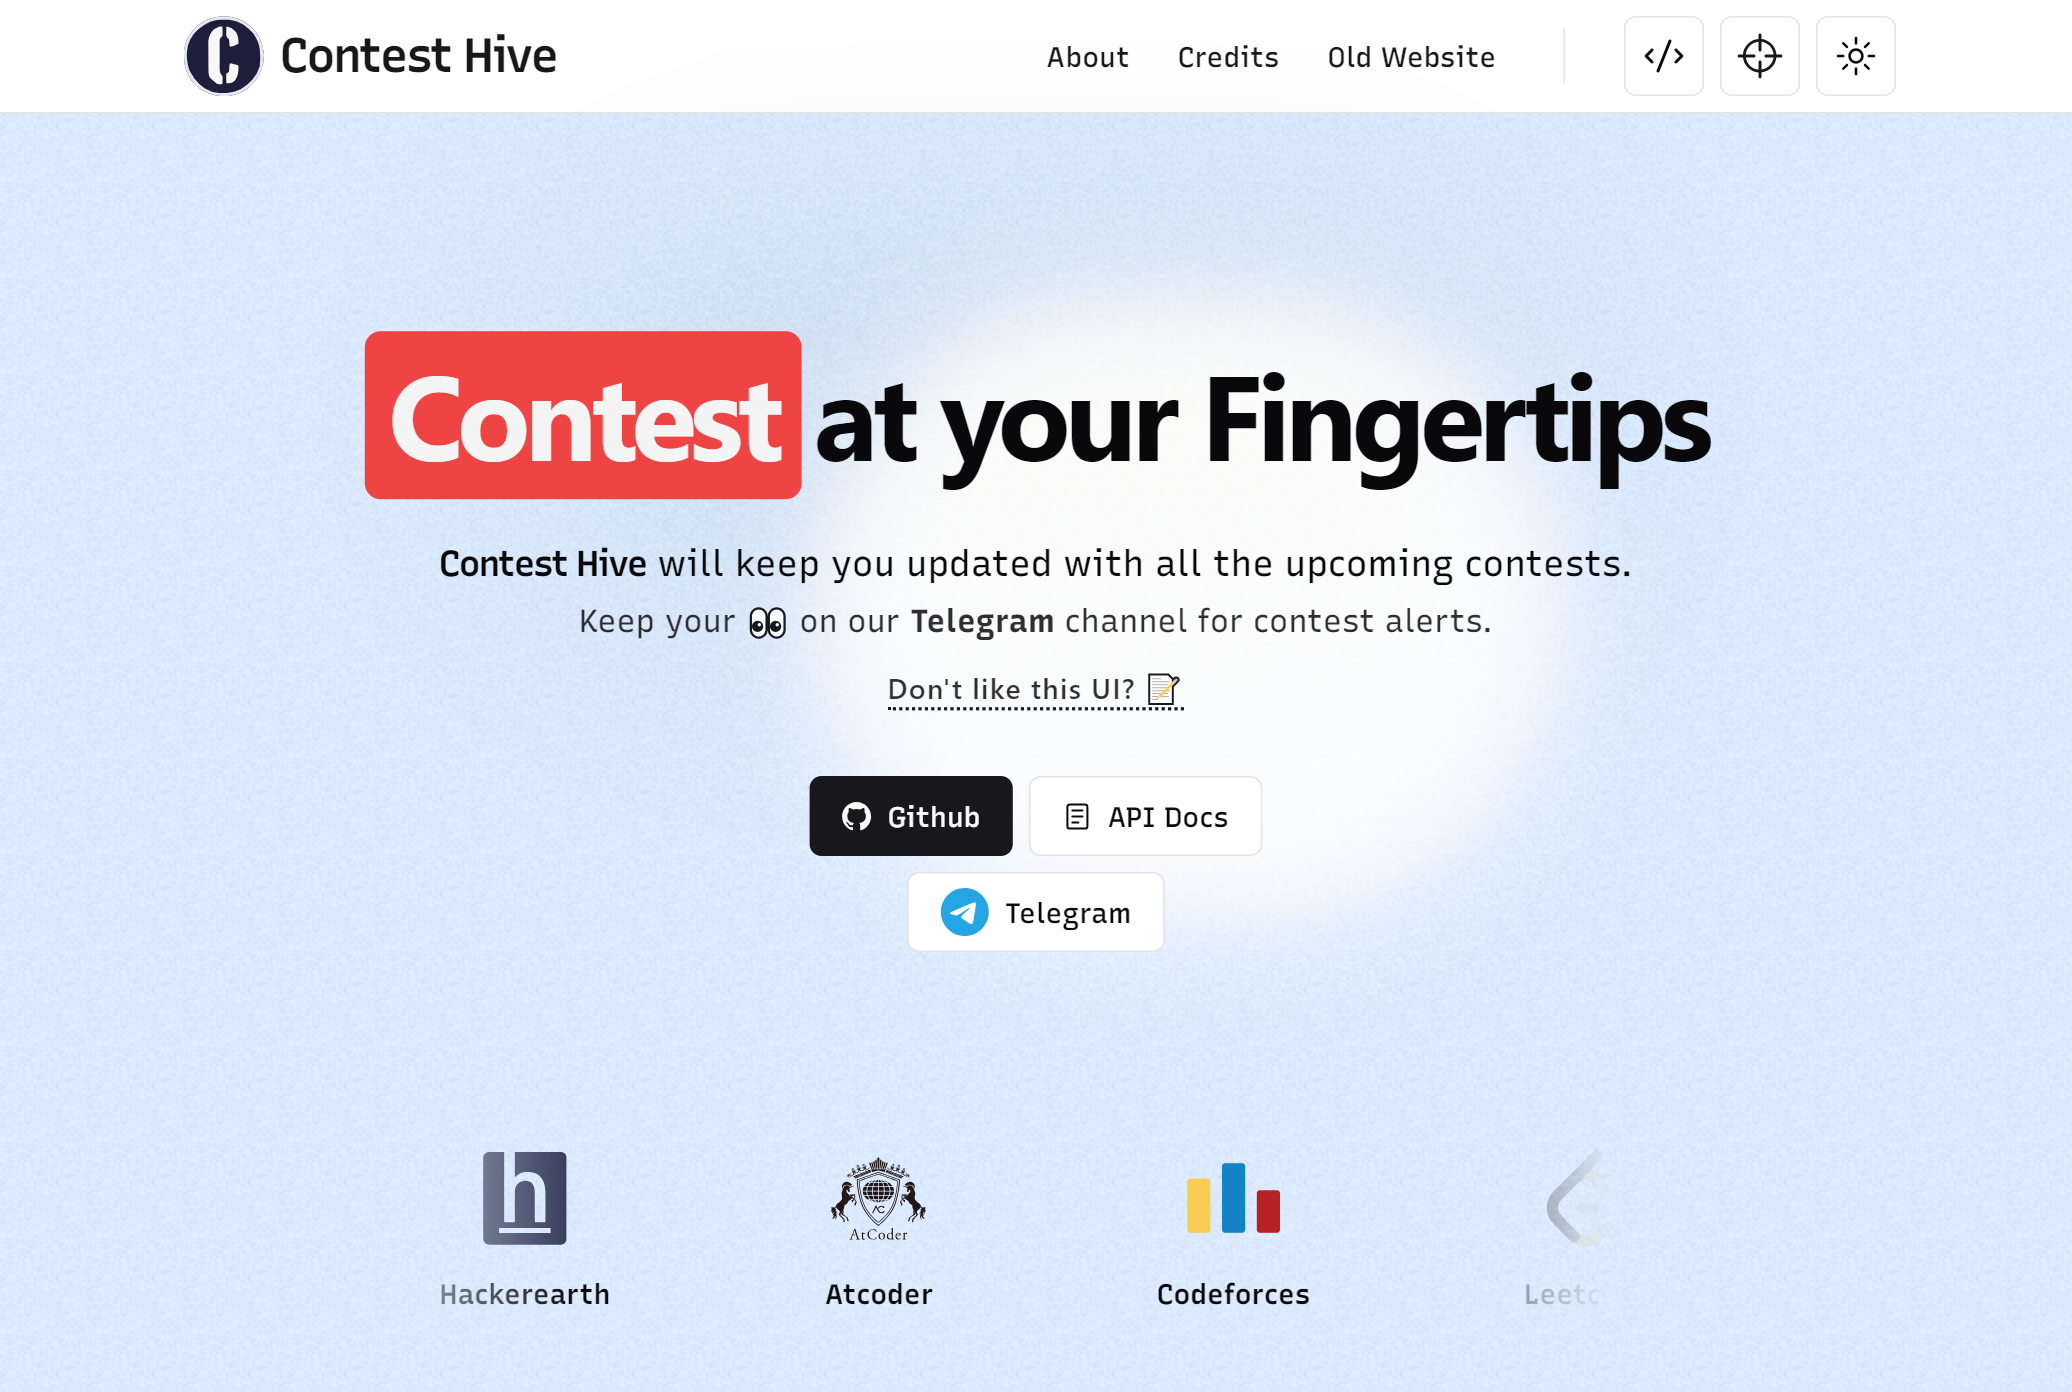
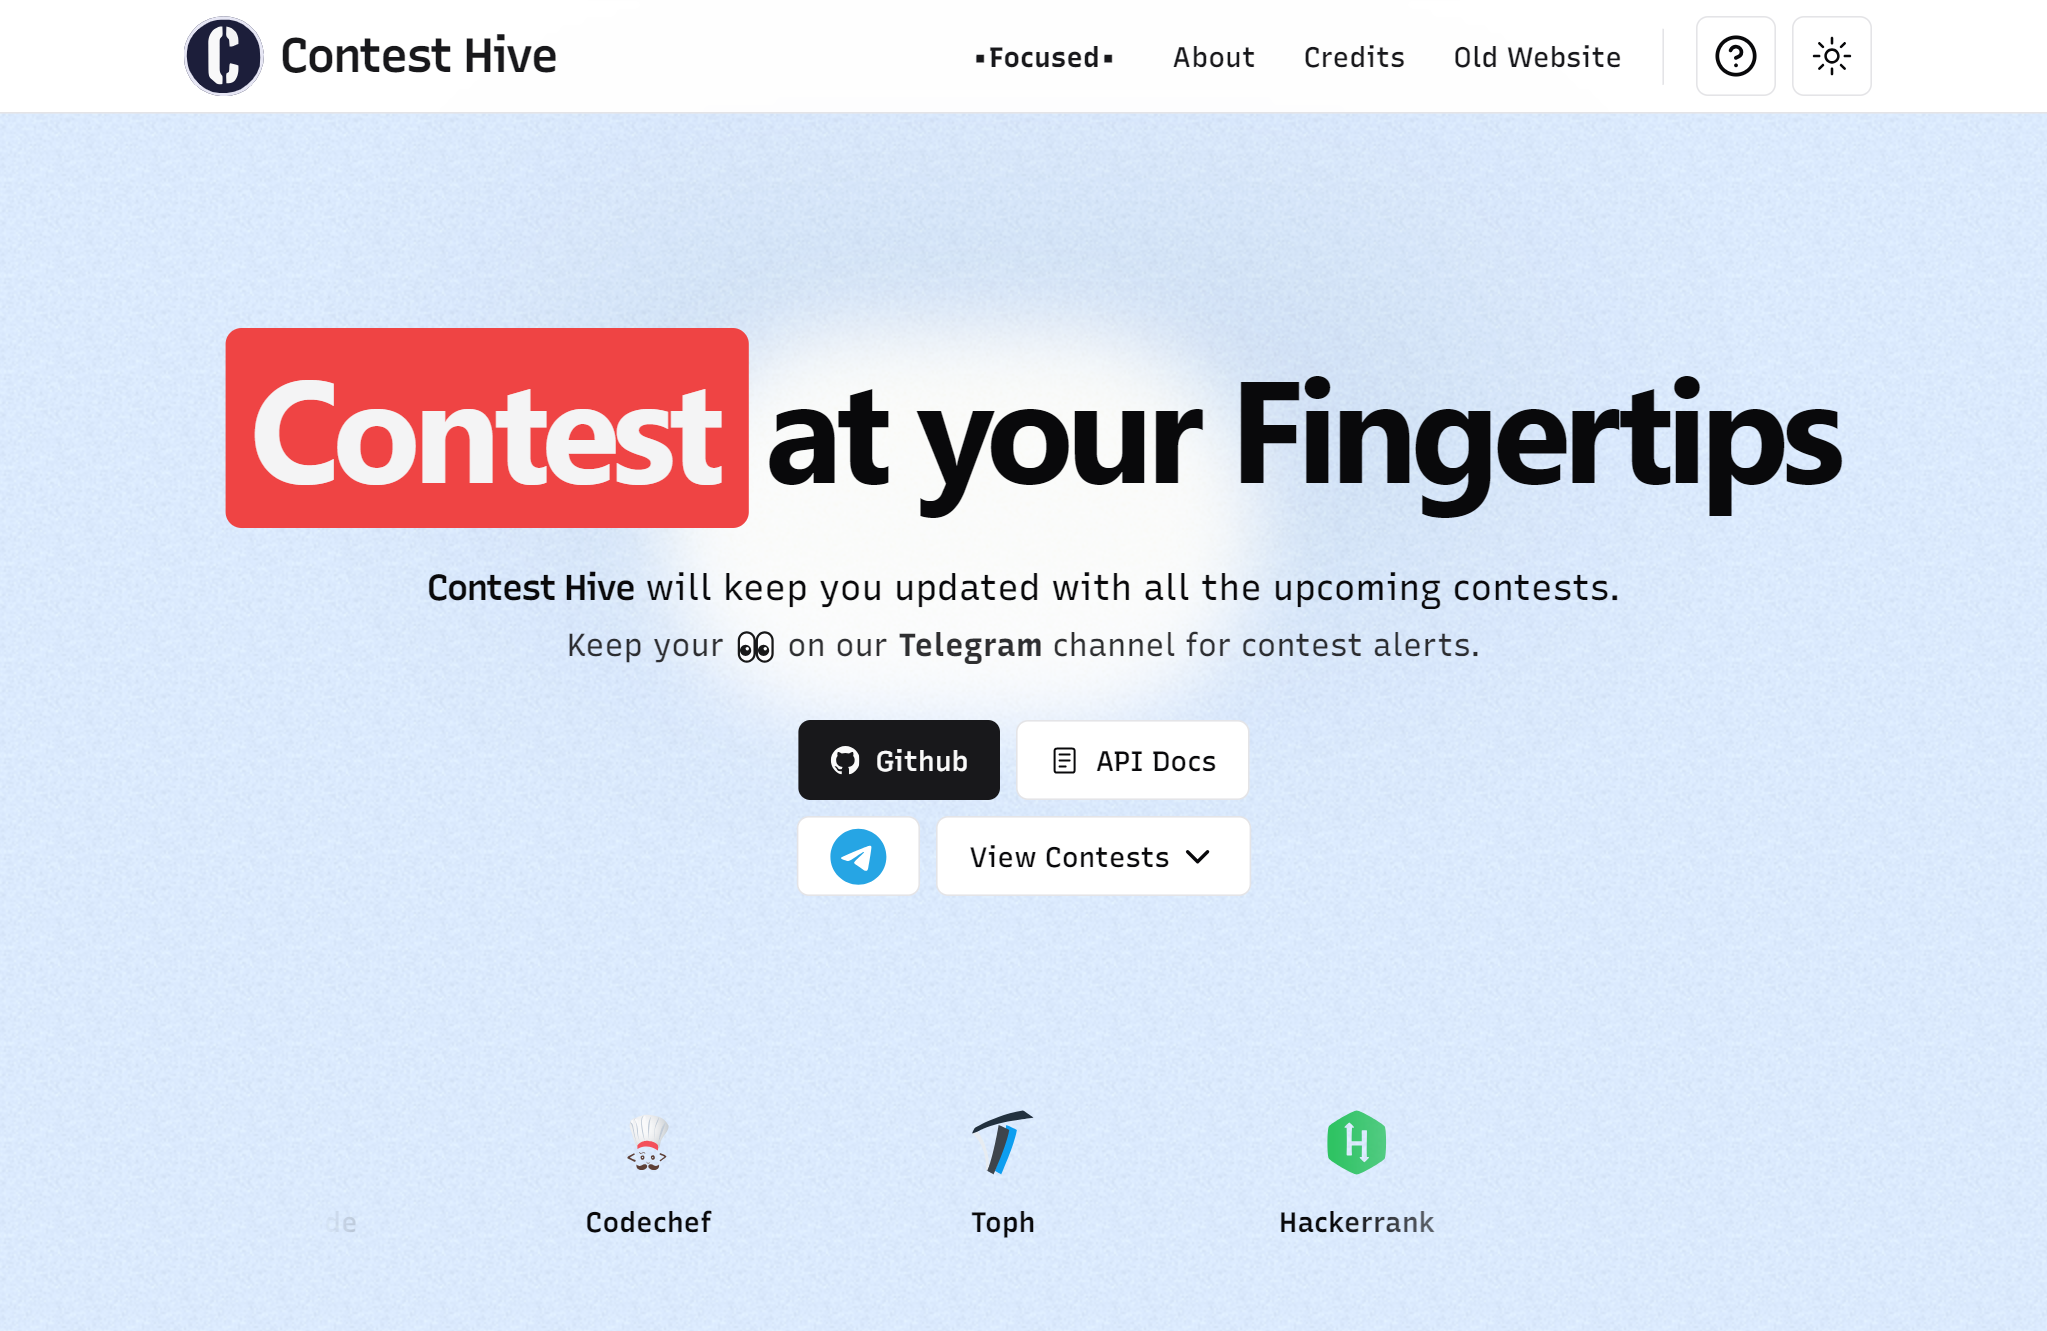
publish

diff --git a/src/components/Hero.tsx b/src/components/Hero.tsx
@@ -7,7 +7,6 @@ import { Button, buttonVariants } from "@/components/ui/button";
 import Highlight from "./typography/Highlight";
 import Slider from "./Slider";
 import AnimatedBlob from "./sub/AnimatedBlob";
-import { cn } from "@/lib/utils";
 
 const GITHUB_Link = "https://github.com/Contest-Hive/Contest-Hive";
 const DOCS_LINK = "https://contest-hive.github.io/docs";
@@ -32,15 +31,6 @@ const Hero = () => {
           Keep your 👀 on our <b>Telegram</b> channel for contest alerts.
         </span>
         <br />
-        <Link
-          href={GOOGLE_FORM}
-          target="_blank"
-          className={buttonVariants({ variant: "link" })}
-        >
-          <span className="underline-dotted font-sans text-xs tracking-wider text-primary/90 md:text-sm">
-            Don&apos;t like this UI? 📝
-          </span>
-        </Link>
       </p>
       <div className="relative flex flex-col items-center justify-center gap-2 py-6">
         <div className="flex items-center justify-center gap-2">

diff --git a/src/components/typography/Anchor.tsx b/src/components/typography/Anchor.tsx
@@ -39,11 +39,7 @@ const Anchor = ({
       href={href}
       target={target}
       title={title}
-      className={cn(
-        buttonVariants({ variant: "link" }),
-        "mx-1 px-1 lg:mx-2",
-        className,
-      )}
+      className={cn(buttonVariants({ variant: "link" }), "mx-1 px-0 lg:px-1 lg:mx-1", className)}
     >
       {children}
     </Link>
